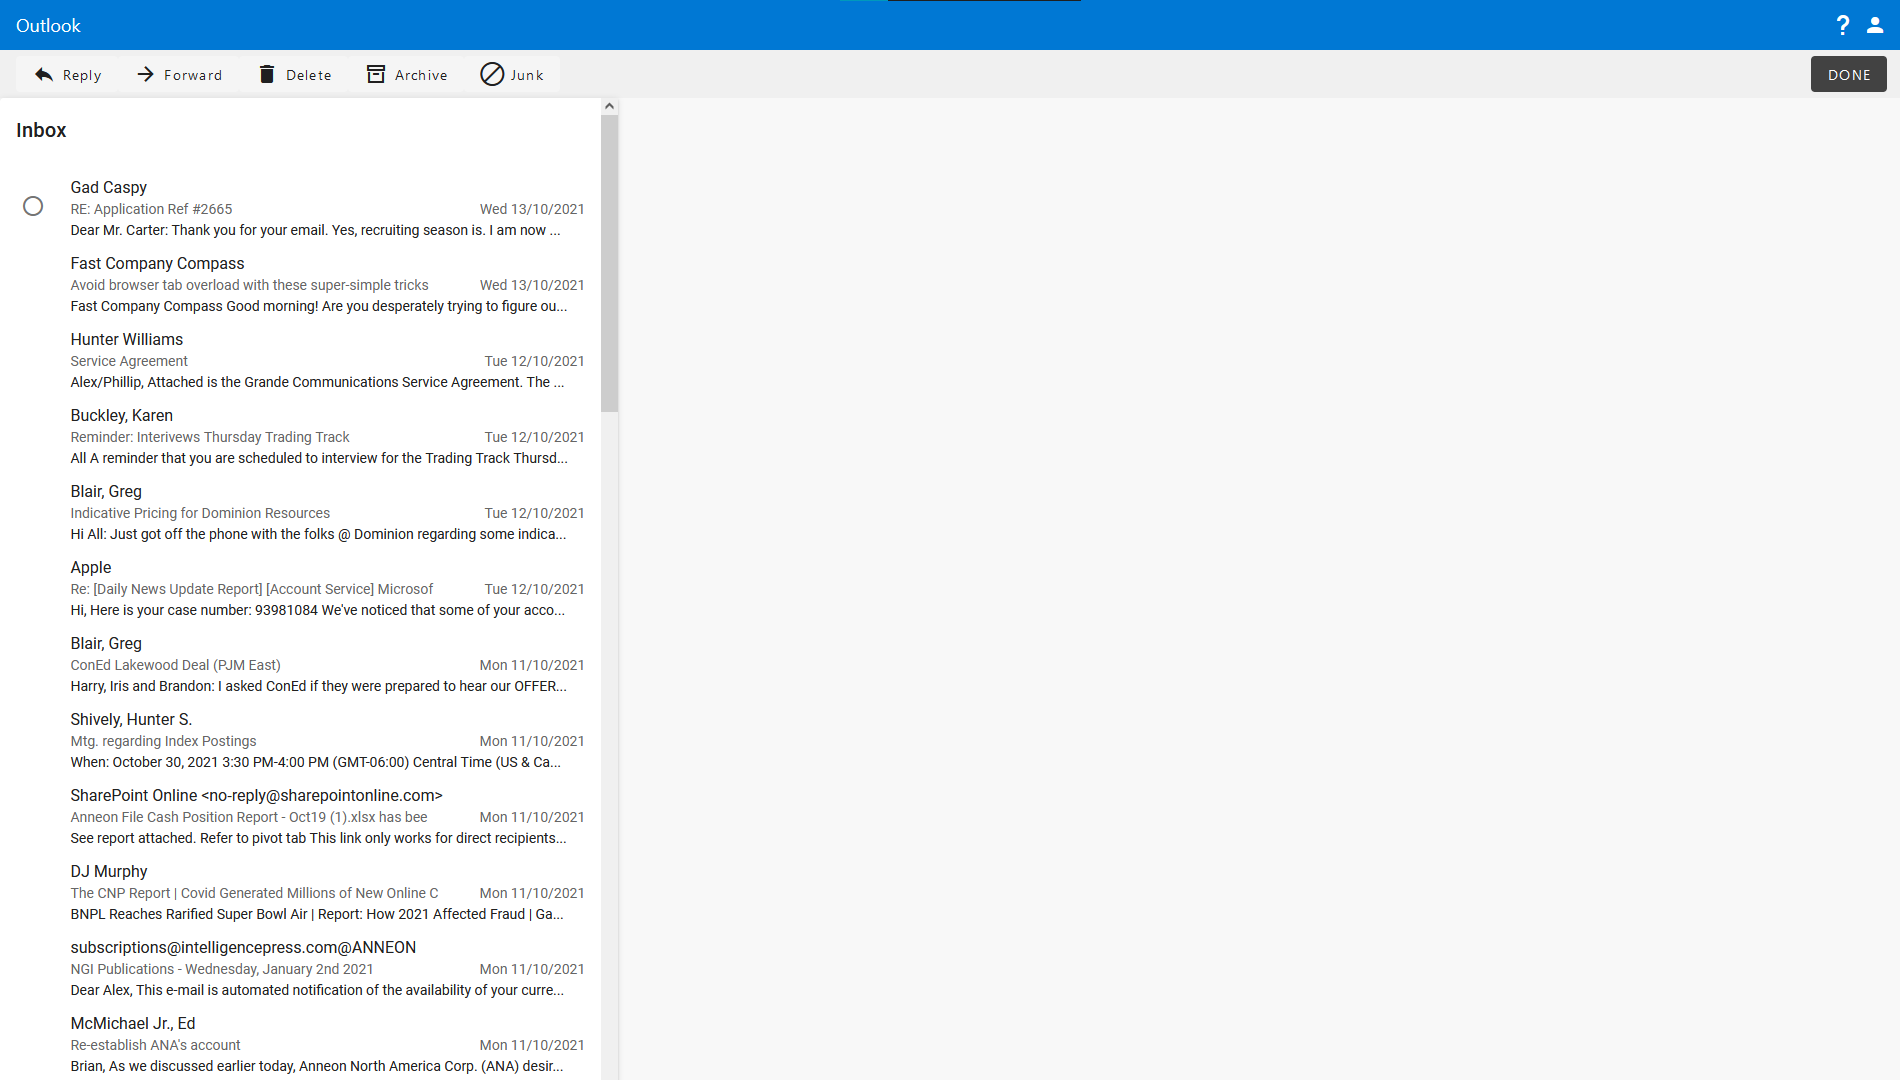
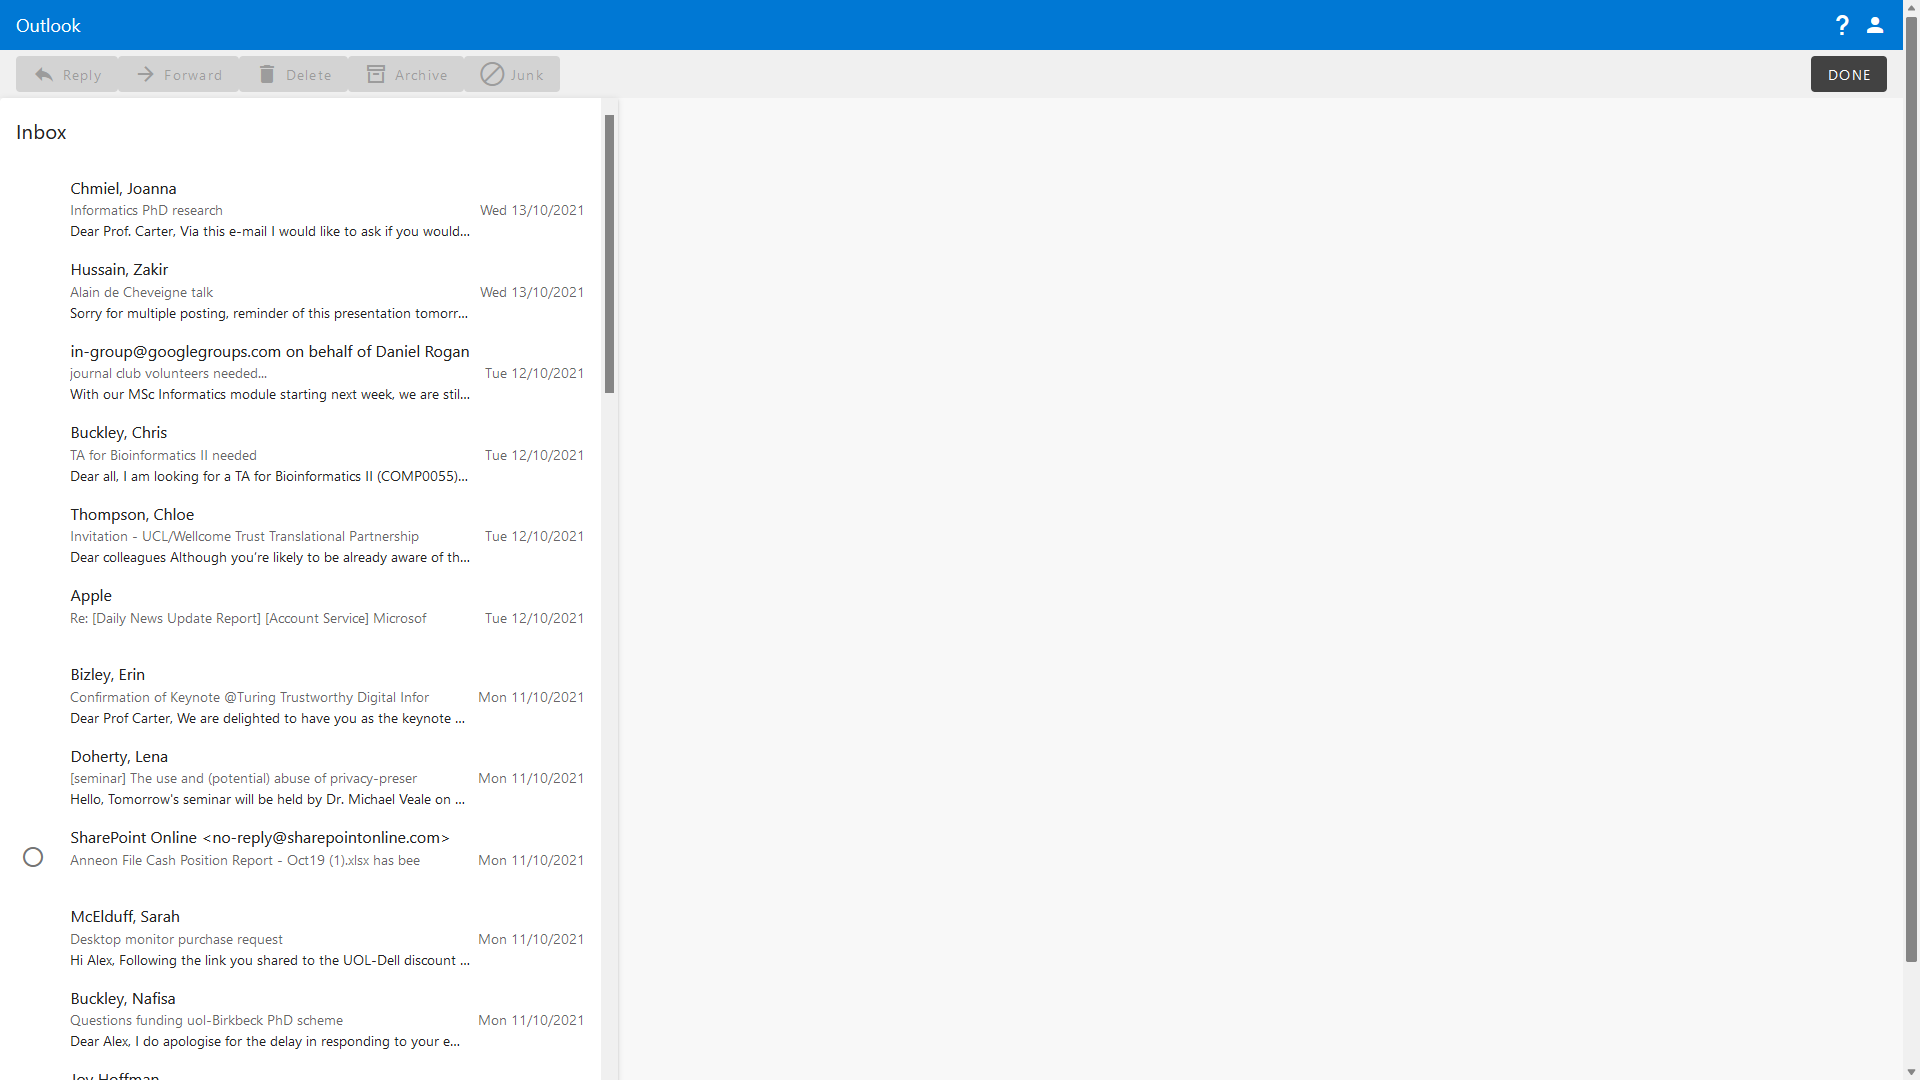
instructions updated to academic cover story

diff --git a/src/components/InstructTxt.vue b/src/components/InstructTxt.vue
@@ -1,13 +1,8 @@
 <template>
   <div>
-    Imagine that you are Alex Carter, an executive director of a fictive company
-    called Anneon.<br /><br />
-
-    Your task in this study is to process Alex' e-mails as you would do as an
-    executive director.<br /><br />
-
-    You will see a snapshot of Alex Carter's inbox.<br />
-    It contains 47 e-mails that need to be processed adequately:<br /><br />
+    Imagine that you are a renowned professor named Alex Carter in the field of health informatics, working at University of London (UOL).<br /><br />
+    In this study, you will see a mock inbox with 47 e-mails adapted from actual e-mails received by academics.<br/>
+    Your task is to process these e-mails as if you received them in your role of Prof. Carter.<br /><br/>
 
     <img src="../assets/ss_inbox_control.png" width="100%" /><br /><br />
 
@@ -23,20 +18,20 @@
       <li><b>Reply</b>: allows you to reply to the sender of the e-mail.</li>
       <li>
         <b>Forward</b>: forward the e-mail to your executive assistant (EA), so
-        your EA can take care of it. You do not need to type an extra message
+        the EA can take care of it. You do not need to type an extra message
         for this action.
       </li>
       <li><b>Archive</b>: move the e-mail to an archive.</li>
       <li><b>Delete</b>: delete the e-mail.</li>
       <li>
-        <b>Junk</b>: report the e-mail as junk and move it to a junk
-        archive.
+        <b>Junk</b>: report the e-mail as junk and move it to the junk
+        folder.
       </li>
     </ul>
     <br />
-    Your task is to choose what you think is the best applicable action for each
+    Your task is to choose what you think is the <b>best applicable action</b> for each
     e-mail.<br />
-    Please note that this task should not take more than 30-45 minutes.<br /><br />
+    Please note that all links in e-mails have been disabled and that this task should not take more than 30-45 minutes.<br /><br />
 
     When you are done processing all e-mails, click "DONE":<br /><br />
     <img src="../assets/ss_done.png" width="100%" />
